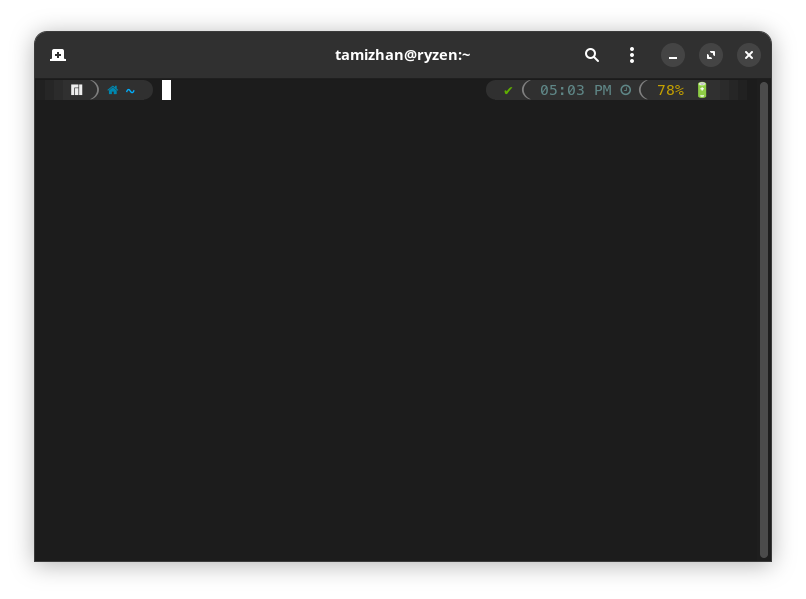
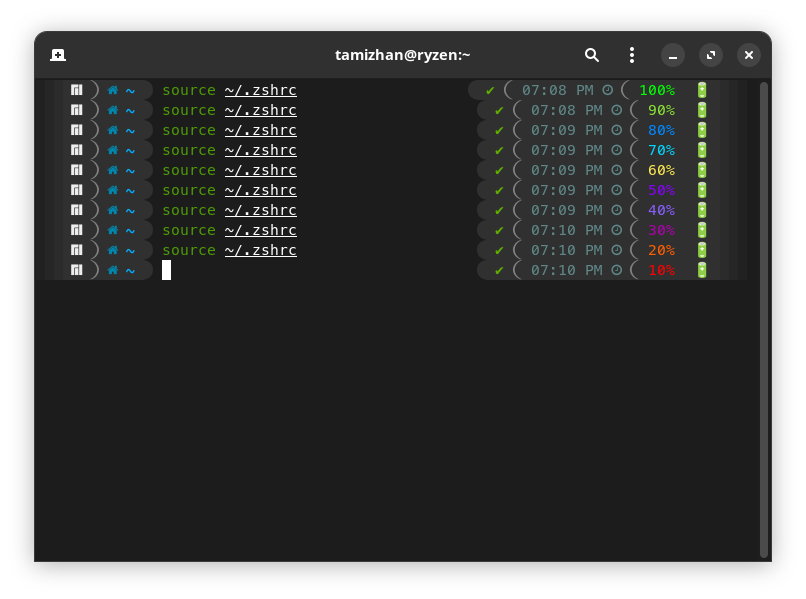
initial commit

diff --git a/README.md b/README.md
@@ -1,1 +1,139 @@
+
 # p10k-bluetooth-battery-prompt
+Adds Bluetooth Battery prompt to Zsh
+
+
+## Introduction
+
+This project adds bluetooth battery prompt to power10k theme.
+
+
+## Screenshots
+
+![App Screenshot](https://github.com/itamizhan/p10k-bluetooth-battery-prompt/blob/main/screenshots/screenshot_01.png)
+
+
+## Dependencies
+
+This project depends on the following things. You need to install them first.
+- [Oh my Zsh](https://github.com/ohmyzsh/ohmyzsh/)
+- [Power10K Theme](https://github.com/romkatv/powerlevel10k)
+
+
+## Preparation
+Make sure Oh My Zsh and Power10K theme are installed.
+
+Run this command to check if Power10K config file exists in ~/.p10k.zsh 
+
+```shell
+[ -f ~/.p10k.zsh ] && echo "~/.p10k.zsh exists." || echo "~/.p10k.zsh does not exist."
+```
+
+
+# Installation
+## 1. Clone the project
+
+```bash
+  https://github.com/itamizhan/p10k-bluetooth-battery-prompt.git
+```
+
+### 2. Go to the project directory
+
+```bash
+  cd p10k-bluetooth-battery-prompt
+```
+### 3. Run
+```bash
+ upower --dump | grep -Po 'model:\s+\K.*' | awk '{$1=$1};1'
+```
+You should see something like this
+```bash
+  itamizhan's Buds2
+```
+### 4. Open sample.zsh and replace `device name` from line no.3
+
+```bash
+  local device_model="itamizhan's Buds2"
+```
+
+### 5.1. Now open ~/.p10k.zsh and search for these lines 
+
+```bash
+  typeset -g POWERLEVEL9K_RIGHT_PROMPT_ELEMENTS=(
+    status                  # exit code of the last command
+    command_execution_time  # duration of the last command
+    background_jobs         # presence of background jobs
+    .
+    .
+    .
+    # wifi                  # wifi speed
+    # example               # example user-defined segment
+```
+### 5.2. Add the following below `example section`
+```bash
+    bluetooth_battery       # shows the battery percentage of bluetooth device
+```
+
+Now, It should look like this
+```bash
+    # battery               # internal battery
+    # wifi                  # wifi speed
+    # example               # example user-defined segment (see prompt_example function below)
+    bluetooth_battery       # shows the battery percentage of bluetooth device
+  )
+```
+
+### 6. Now search `function prompt_example()` and copy paste all the content from sample.zsh below that function
+```bash
+# Type `p10k help segment` for documentation and a more sophisticated example.
+  function prompt_example() {
+    p10k segment -f 208 -i '⭐' -t 'hello, %n'
+  }
+
+# Created by Tamizhan
+  function prompt_bluetooth_battery() {
+    # Define the device model
+    local device_model="Vimal's Buds2"
+    
+    # Check if the device is connected
+    if upower --dump | grep -q "$device_model"; then
+        # Run upower --dump command and grep for the device model
+        local output=$(upower --dump | grep -A 8 "$device_model")
+        
+        # Extract the battery percentage value
+        local percentage=$(echo "$output" | grep "percentage:" | awk '{print $2}')
+        
+        # Convert percentage to integer
+        local percentage_int=${percentage%\%}
+     
+        # Set the color based on battery percentage range
+        local color=""
+        if (( percentage_int >= 91 )); then
+            color="%F{46}"   # Color 46
+        elif (( percentage_int >= 81 )); then
+            color="%F{10}"    # Color 10
+        elif (( percentage_int >= 71 )); then
+            color="%F{33}"  # Color 33
+        elif (( percentage_int >= 61 )); then
+            color="%F{45}"  # Color 45
+        elif (( percentage_int >= 51 )); then
+            color="%F{11}"    # Color 11
+        elif (( percentage_int >= 41 )); then
+            color="%F{93}"  # Color 93
+        elif (( percentage_int >= 31 )); then
+            color="%F{99}"   # Color 99
+        elif (( percentage_int >= 21 )); then
+            color="%F{127}"    # Color 127
+        elif (( percentage_int >= 11 )); then
+            color="%F{202}"     # Color 202
+        else
+            color="%F{196}"     # Color 196
+        fi
+        
+        # Set the prompt with the battery percentage and color
+        p10k segment -f 208 -i '🔋' -t "${color}${percentage_int}%% "
+    fi
+}
+
+```
+### 7. Now, save the file and restart the terminal and that's it.
